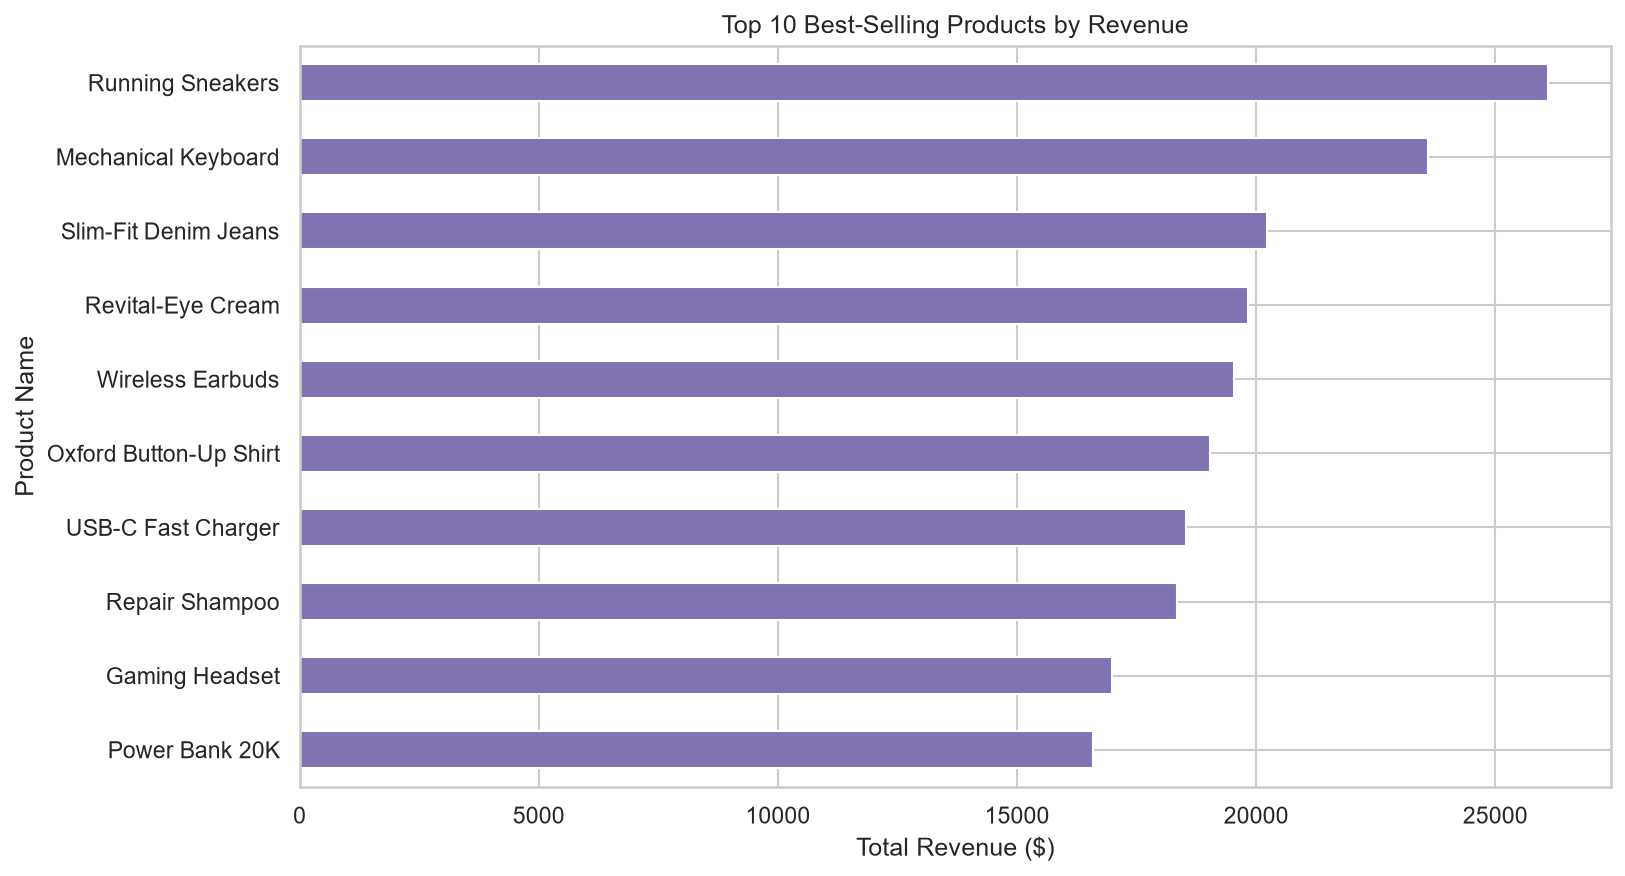
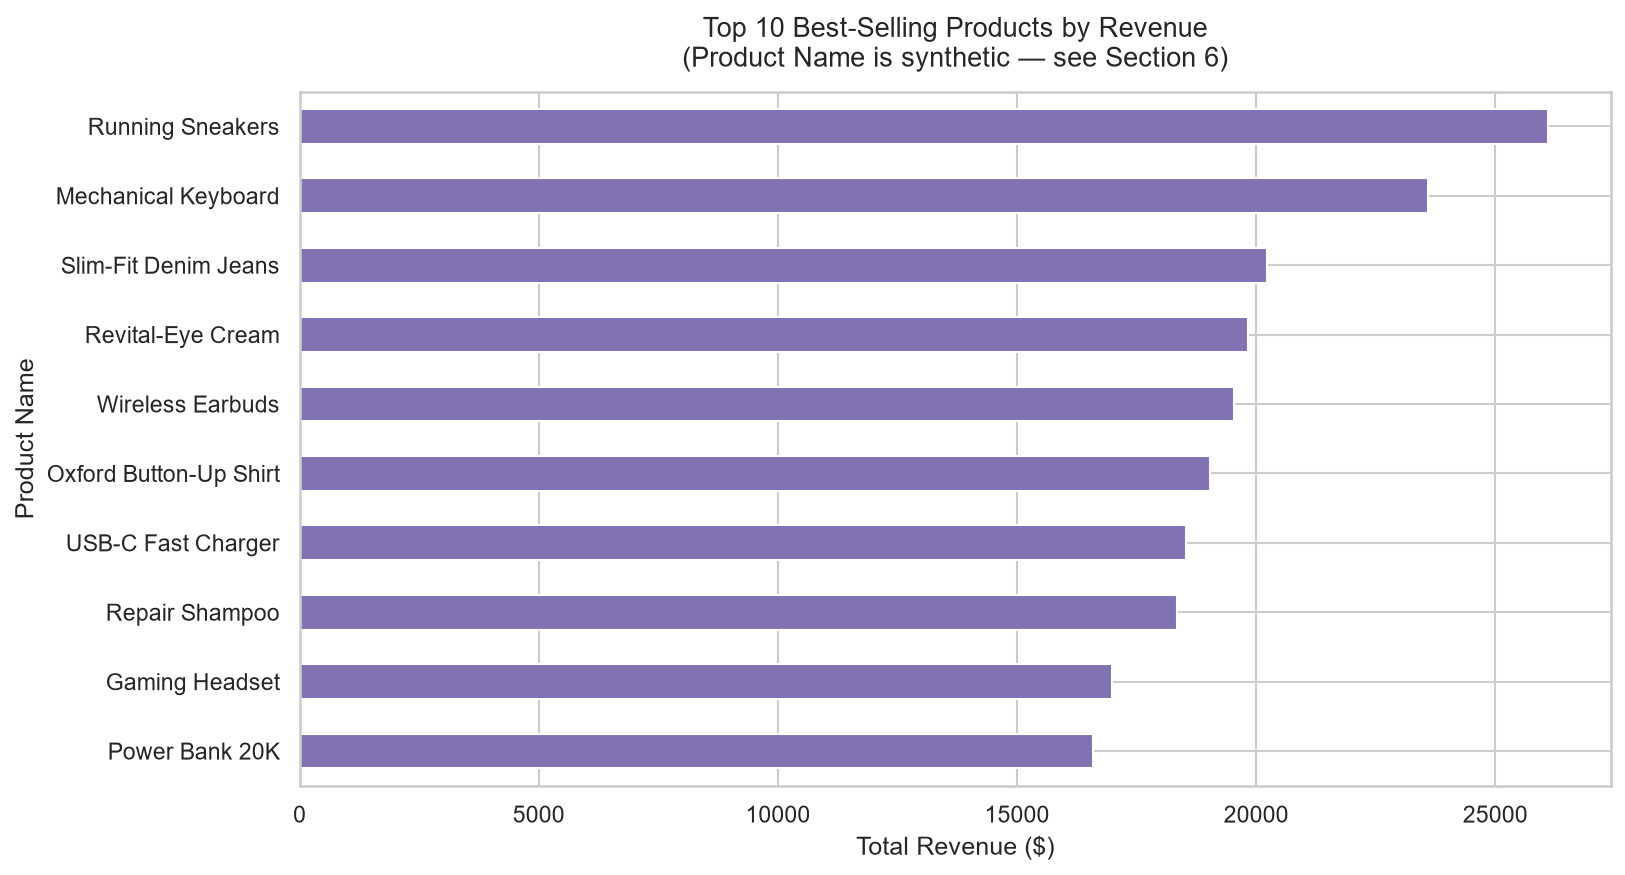
First commit

diff --git a/DataAnalytics-L1-EDARetailSales/README.md b/DataAnalytics-L1-EDARetailSales/README.md
@@ -10,7 +10,8 @@ A thorough Exploratory Data Analysis of a retail sales dataset to uncover sales 
 
 - **Source:** [Retail Sales Dataset — Kaggle](https://www.kaggle.com/datasets/mohammadtalib786/retail-sales-dataset)
 - **License:** CC0: Public Domain
-- **Contents:** 1,000 transactions spanning **Jan 2023 – Jan 2024**
+- **Contents:** 1,000 transactions dated **1 Jan 2023 – 1 Jan 2024**
+  (⚠ the final day contributes only **2 rows**, so Jan-2024 is a *partial* month — see [Known limitations](#known-limitations))
 
 | Column | Description |
 |---|---|
@@ -20,16 +21,36 @@ A thorough Exploratory Data Analysis of a retail sales dataset to uncover sales 
 | Gender | Customer gender (Male / Female) |
 | Age | Customer age (18–64) |
 | Product Category | Beauty / Clothing / Electronics |
-| Product Name | Product-level SKU (see note below) |
+| Product Name | Synthetic product-level SKU — see [Data provenance](#data-provenance) |
 | Quantity | Units purchased per transaction (1–4) |
-| Price per Unit | Price of a single unit ($25–$500) |
-| Total Amount | Total monetary value of the transaction |
+| Price per Unit | Price of a single unit — only 5 distinct values exist ($25–$500) |
+| Total Amount | Total monetary value = `Quantity × Price per Unit` on every row |
 
-> **Note on product granularity:** the upstream Kaggle dataset only records the
-> product *category*. To satisfy the "top 10 best-selling products" requirement, the
-> dataset was enriched with a deterministic `Product Name` column (30 realistic,
-> category-specific SKUs) via the fixed-seed script `data_enrichment.py`. Run it to
-> reproduce the column from the original download.
+> ### Data provenance
+>
+> ⚠ **This is a synthetic dataset.** The source file is a **teaching/synthetic dataset**, not a record
+> of real retail activity. This is verifiable from the data itself, not assumed:
+>
+> | Signal | Observation |
+> |---|---|
+> | Unit prices | only **5 distinct values** (25, 30, 50, 300, 500) |
+> | Quantities | always between 1 and 4 |
+> | `Total Amount` | exactly `Quantity × Price per Unit` on **every** row — a derived column, not an independent measure |
+> | `Transaction ID` | sequential 1…1,000 |
+> | Repeat behaviour | **1,000 rows = 1,000 distinct customers** — exactly one transaction per customer |
+>
+> **What this means for the results**
+> 1. **The `Product Name` column does not exist in the source file.** The upstream dataset records only
+>    the product *category*, which cannot answer the checklist item *"top 10 best-selling products"*.
+>    It is therefore generated **deterministically** (fixed seed `2024`) by `data_enrichment.py`, which
+>    assigns one of 30 realistic, category-specific SKU names per row. Run that script to reproduce the
+>    column byte-for-byte from the original download. Product-level rankings consequently describe the
+>    **enrichment method**, not real products — the notebook states this at the point of use and prints
+>    it on the product chart itself.
+> 2. The figures below are **properties of this sample**, not evidence about a real business. They are
+>    reported in full because they exercise every analytical step the task requires. What the project
+>    demonstrates is the **method** — inspection, cleaning, descriptive statistics, time series,
+>    segmentation, correlation — which transfers to a production dataset unchanged.
 
 ---
 
@@ -63,11 +84,18 @@ DataAnalytics-L1-EDARetailSales/
 # 1. Install dependencies
 pip install pandas numpy matplotlib seaborn jupyterlab
 
-# 2. Launch JupyterLab from this folder
+# 2. (Optional) regenerate the Product Name column from the original download.
+#    Deterministic — fixed seed 2024 — so it always reproduces the same SKUs.
+python data_enrichment.py
+
+# 3. Launch JupyterLab from this folder
 jupyter lab
 
-# 3. Open EDA_Retail_Sales.ipynb and run all cells (or re-execute from the top)
+# 4. Open EDA_Retail_Sales.ipynb and run all cells (or re-execute from the top)
 ```
+
+> Verified: the notebook re-executes top-to-bottom with **zero errors** and regenerates all 10
+> screenshots in `screenshots/`.
 
 ---
 
@@ -89,11 +117,14 @@ jupyter lab
 
 ## Key Findings
 
-1. **Strong seasonality, flat overall** — revenue swings from a **September trough ($23.6k)** to a **May peak ($53.2k)**; Q4 2023 is the strongest quarter ($126.2k).
+> Read against the [provenance note](#data-provenance) above: these characterise **this synthetic
+> sample**, and are presented to demonstrate the analytical method.
+
+1. **Strong seasonality, flat overall** — revenue swings from a **September trough ($23.6k)** to a **May peak ($53.2k)**; at quarterly level **Q4 2023 is the strongest ($126.2k)** and **Q3 2023 the weakest ($96.0k)** — a classic end-of-year boost. *(Jan-2024 shows only $1.5k because the dataset ends on 1 Jan 2024 — it is a partial month, not a collapse in sales.)*
 2. **Unit price, not volume, drives revenue** — `Price per Unit` correlates **+0.85** with `Total Amount`; Electronics earns the most revenue ($156.9k) while Clothing only moves the most units (894).
 3. **Younger customers spend more per order** — average order value falls from **≈ $500 (18–25)** to **≈ $412 (56+)**. 46–55 is the busiest band; gender split is nearly even (51/49).
 4. **Weekend effect** — **Saturday alone contributes 17.3%** of weekly revenue (vs. 11.8% for the slowest day, Thursday); weekends bring 30.1% of weekly revenue.
-5. **Product-level best sellers** — **Running Sneakers** tops *both* revenue (**$26.1k**) and units (131); the top-10 products deliver **43.6%** of total revenue, with Electronics SKUs (Mechanical Keyboard, Wireless Earbuds, USB-C Fast Charger) dominating the value list.
+5. **Product-level best sellers** — **Running Sneakers** tops *both* revenue (**$26.1k**) and units (131); the top-10 products deliver **43.6%** of total revenue, with Electronics SKUs (Mechanical Keyboard, Wireless Earbuds, USB-C Fast Charger) dominating the value list. *(Product names are synthetic — see the provenance note.)*
 
 ### Recommendations (summary)
 - Push promotions in the weak months (Sep, Mar) and staff/stock for May, Oct, Dec peaks.
@@ -113,10 +144,28 @@ Charts are rendered inline in the notebook and saved to `screenshots/`:
 4. `04_age_group_distribution.png` — age bands
 5. `05_avg_spend_age_gender.png` — AOV by age × gender
 6. `06_revenue_by_category.png` — category revenue
-7. `07_top10_products_revenue.png` — top 10 products by revenue
+7. `07_top10_products_revenue.png` — top 10 products by revenue (carries the synthetic-SKU caveat in its title)
 8. `08_quantity_by_category.png` — quantity boxplots
 9. `09_correlation_heatmap.png` — feature correlations
 10. `10_weekday_sales_pattern.png` — day-of-week insight
+
+---
+
+## Known limitations
+
+Stated explicitly so the analysis is not over-read:
+
+| # | Limitation | Effect on the analysis |
+|---|---|---|
+| 1 | The source dataset is **synthetic** (see provenance note) | All figures describe this sample, not a real business. The value delivered is the method. |
+| 2 | **`Product Name` is generated**, not observed | The "top 10 best-selling products" ranking reflects the fixed-seed assignment in `data_enrichment.py`. Category-level findings (Sections 5–6) are unaffected, because `Product Category` **is** in the source file. |
+| 3 | **1,000 rows = 1,000 distinct customers** — one transaction each | Repeat purchase, retention, customer lifetime value and RFM segmentation are **not** computable. Frequency-based analysis would need a transactional dataset with repeat customers. |
+| 4 | **`Total Amount` = `Quantity × Price per Unit`** on every row | It is a derived column, so its +0.85 correlation with unit price is partly arithmetic, not an empirical discovery. It is still a useful proxy for basket value. |
+| 5 | **Jan-2024 is a partial month** (2 rows, 1 Jan only) | Its $1.5k is not a demand collapse. Month-over-month comparisons should exclude it; the analysis compares **September** as the trough among complete months. |
+| 6 | Only **5 distinct unit prices** and quantities of 1–4 | Price is heavily quantised, which flattens distribution shapes (e.g. the `Price per Unit` median of $50 vs. mean of $180 is driven by a few high-price rows, not a smooth spread). |
+| 7 | **Age and gender are attributes of a single one-off transaction** | No tenure or lifecycle information exists, so demographic findings describe *purchase occasion*, not customer cohorts. |
+
+**What I would do with a production dataset:** validate `Total Amount` against invoices, confirm repeat customers exist for retention analysis, replace the generated product column with real SKUs, and re-test the seasonality finding across multiple years before acting on it commercially.
 
 ---
 
